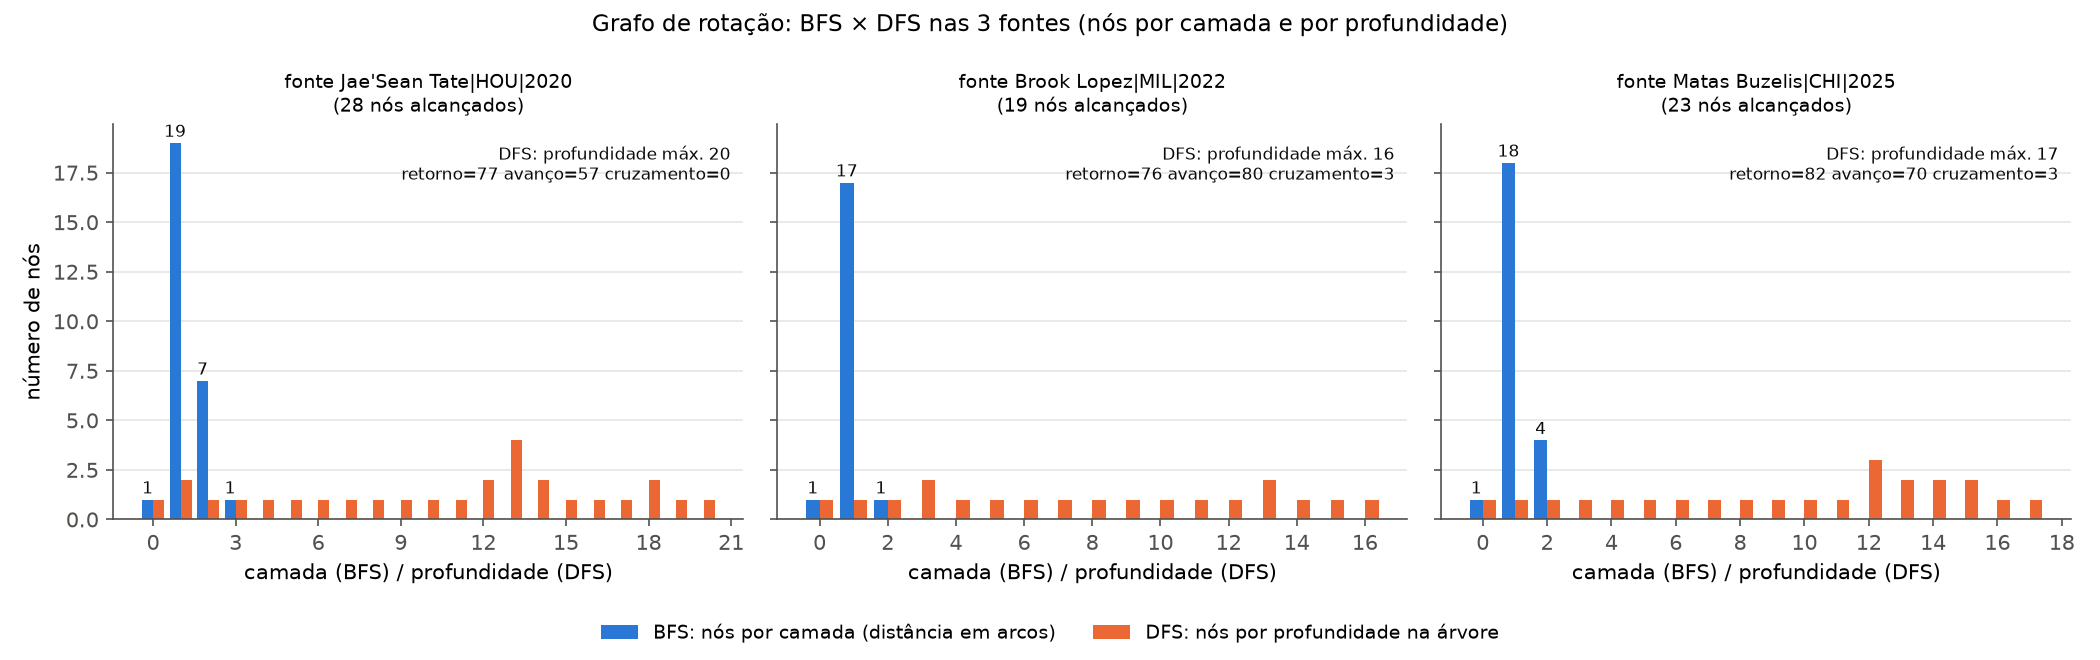
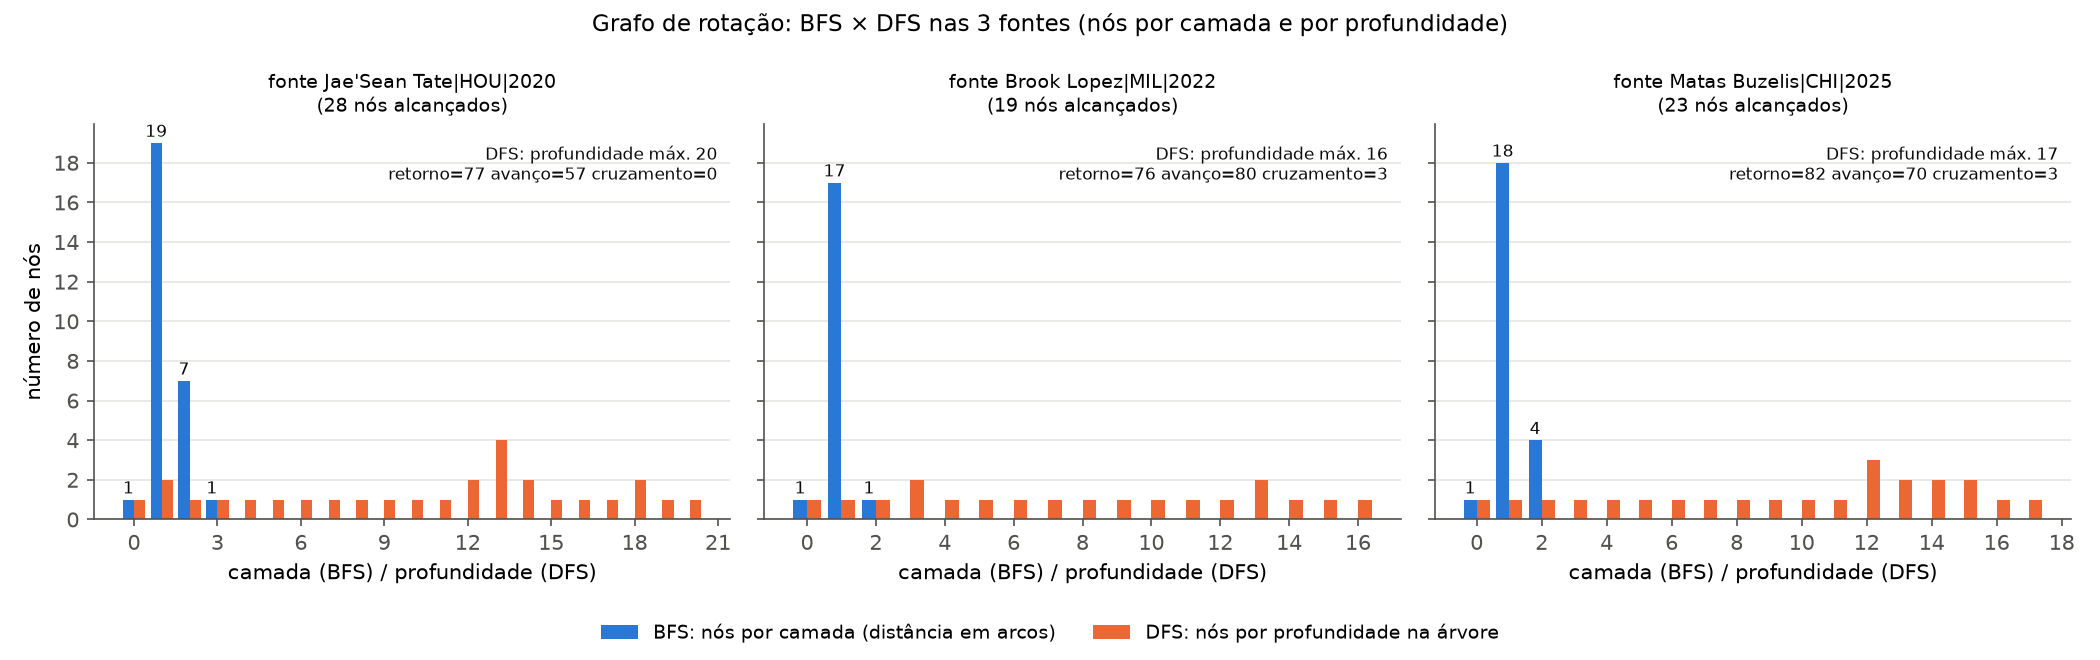
Parte 2 (viz): BFS × DFS com eixo de número de nós só com inteiros

diff --git a/src/parte2/rotacao_graficos.py b/src/parte2/rotacao_graficos.py
@@ -149,6 +149,8 @@ def bfs_x_dfs(dados: dict, destino: Path) -> None:
         ax.set_title(f"fonte {e['fonte']}\n({len(e['BFS']['ordem'])} nós alcançados)", fontsize=9)
         ax.set_xlabel("camada (BFS) / profundidade (DFS)")
         ax.xaxis.set_major_locator(MaxNLocator(integer=True))
+        # [IA] Claude – número de nós é contagem: eixo y só com inteiros (antes mostrava 2,5, 7,5, 12,5…)
+        ax.yaxis.set_major_locator(MaxNLocator(integer=True))
         _eixos(ax, "y")
     axs[0].set_ylabel("número de nós")
     handles, labels = axs[0].get_legend_handles_labels()
